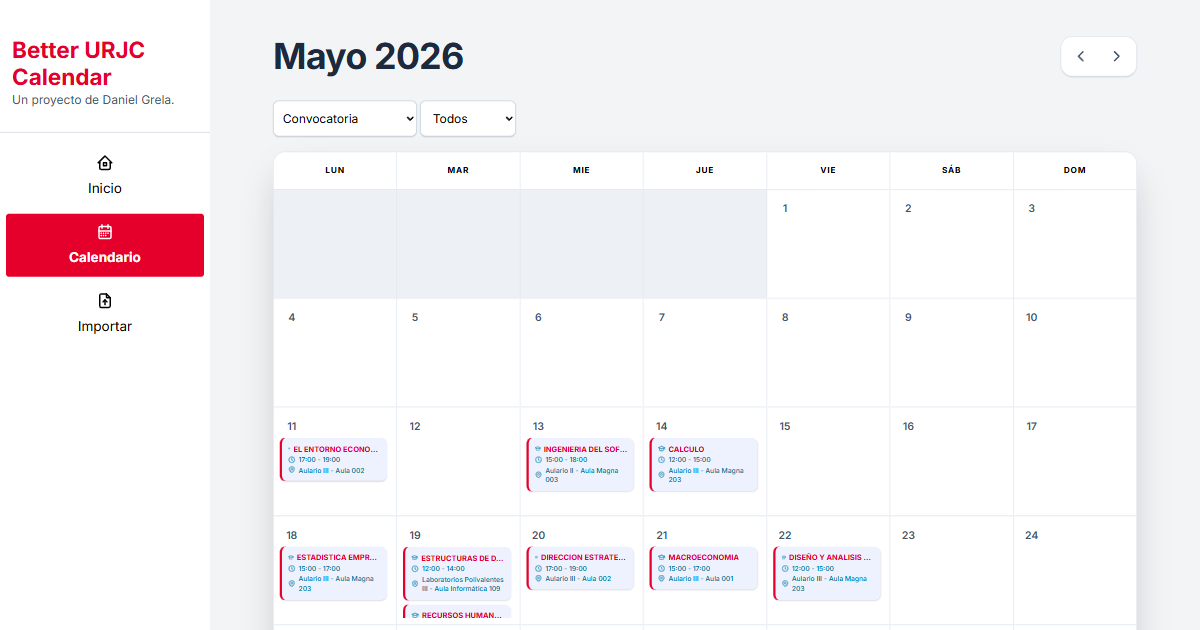
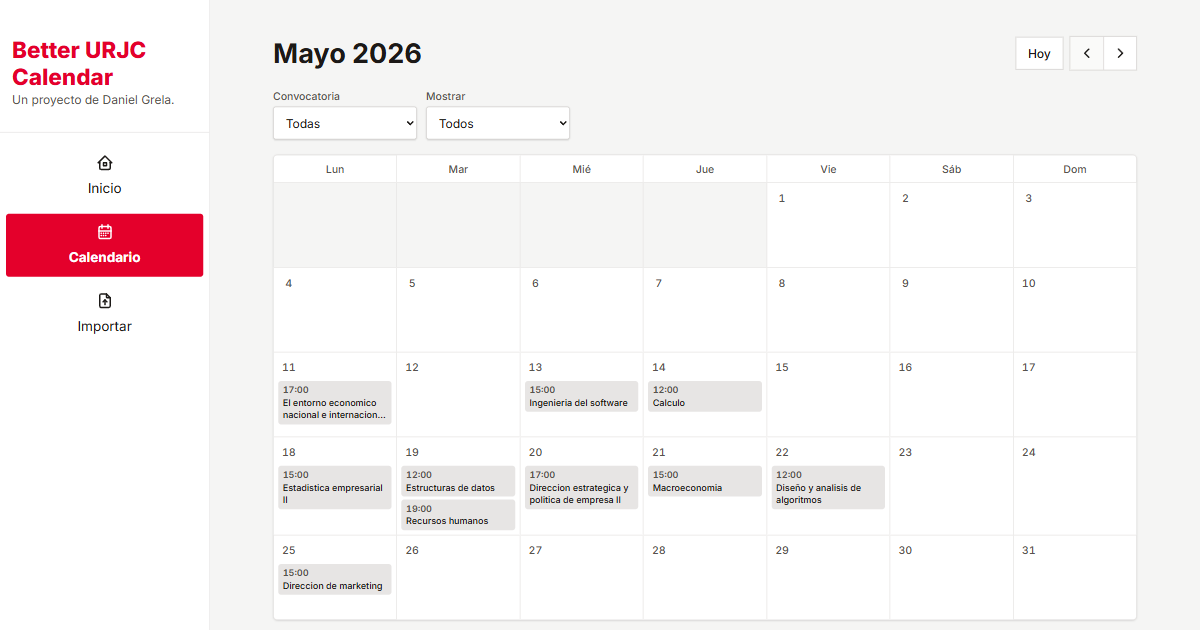
Se rehacen la imagen social y la captura de Importar con el diseño nuevo

diff --git a/src/components/UseGuide.tsx b/src/components/UseGuide.tsx
@@ -32,13 +32,13 @@ export default function UseGuide() {
                     </div>
                 </div>
                 <div className="min-w-full lg:min-w-1/3 gap-8 flex flex-col justify-center">
-                    <img src={fotoguia02} alt="Inicio de sesión único (SSO) de la URJC con las opciones Credenciales y Sistema Cl@ve" className="rounded-md border border-borde w-full h-auto object-contain" />
-                    <img src={fotoguia01} alt="Apartado Exámenes de la web de la URJC con los botones Descargar en PDF y Descargar en Excel" className="rounded-md border border-borde w-full h-auto object-contain" />
+                    <img src={fotoguia02} width={833} height={546} decoding="async" alt="Inicio de sesión único (SSO) de la URJC con las opciones Credenciales y Sistema Cl@ve" className="rounded-md border border-borde w-full h-auto object-contain" />
+                    <img src={fotoguia01} width={340} height={182} loading="lazy" decoding="async" alt="Apartado Exámenes de la web de la URJC con los botones Descargar en PDF y Descargar en Excel" className="rounded-md border border-borde w-full h-auto object-contain" />
                 </div>
             </article>
             <article className="p-6 gap-10 w-full max-w-300 h-fit flex flex-col-reverse lg:flex-row">
                 <div className="min-w-full lg:min-w-1/2 gap-8 flex flex-col justify-center">
-                    <img src={fotoguia03} alt="Página Importar de Better URJC Calendar con el archivo Examenes.xlsx seleccionado y el botón Importar" className="rounded-md border border-borde w-full h-auto object-contain" />                </div>
+                    <img src={fotoguia03} width={968} height={695} loading="lazy" decoding="async" alt="Página Importar de Better URJC Calendar con el archivo Examenes.xlsx seleccionado y el botón Importar" className="rounded-md border border-borde w-full h-auto object-contain" />                </div>
                 <div className="min-w-full lg:min-w-1/2 gap-5 flex flex-col justify-center">
                     <div className='flex flex-col lg:flex-row items-center justify-center text-center lg:text-start lg:justify-start gap-3'>
                         <IconFileUpload stroke={2} className='text-primary size-8 min-w-fit' aria-hidden='true'/>

diff --git a/ROADMAP.md b/ROADMAP.md
@@ -157,7 +157,7 @@ Lo bueno: un solo color de marca, CTAs rectos y directos, tarjeta de examen clar
 - [x] **F6.7** Accesibilidad: zonas táctiles ≥ 44 px (footer, «Volver al inicio», navegación), `focus-visible` con anillo `primary` en todos los controles, `label` (visible o `sr-only`) en los `<select>`, `aria-current="page"` en la navegación, `prefers-reduced-motion`. Hecho: anillo `primary` global en `:focus-visible` (también en la zona de subida vía `peer`), `label` `sr-only` en los dos `<select>` (con `useId`), `aria-label` «Mes anterior/siguiente» y 44×44 en los botones de mes, ≥ 44 px en footer, «Volver al inicio», iconos del `Header`, enlaces de la 404 y botón «Importar» (ahora uno solo responsive), `h2` de Características `sr-only` en móvil (orden de títulos), enlaces dentro de párrafos subrayados y transiciones a 0 s con `prefers-reduced-motion`. `aria-current="page"` ya lo pone `NavLink`. El botón «Hoy» del calendario va en F6.9.
 - [x] **F6.8** Copy: tildes que faltan («exámenes», «aquí», «Ahórrate», «Olvídate», «céntrate», «asegúrate»), mayúsculas coherentes en botones y textos de ayuda en el mismo tono. Hecho: tildes en portada, Características, Importar, guía, lista móvil y «Mié» de la rejilla; mayúsculas de frase en títulos y botones («Próximos exámenes», «Mis exámenes», «Importar calendario de exámenes»); «Ya tienes» (tú); fuera el prefijo «ERROR:»; comillas «» en la guía; `aria-label` de los iconos del `Header` en español. El título de la hoja del Excel exportado («Examenes») se deja igual que el original de la URJC.
 - [x] **F6.9 Legibilidad del calendario (rediseño global)**: pedido por el usuario el 2026-11-19. Revisar el diseño de todo lo que muestra exámenes para que se lea de un vistazo, como un único sistema y no tres piezas sueltas. Empezar con `impeccable critique` del calendario de escritorio, la lista móvil, `NextExams` y el mockup de la portada, en claro y oscuro, y **proponer la dirección al usuario antes de implementar**. Cubrir: jerarquía de la tarjeta (asignatura > fecha y hora > aula > plan), tamaños mínimos (12 px en la rejilla, 14 px en las listas), nada de mayúsculas forzadas ni `truncate` que corte el nombre de la asignatura sin forma de verlo entero, celdas con varios exámenes sin scroll interno (resumen tipo «+2 más» o detalle al pulsar), contraste AA de `tertiary` y `primary` sobre las superficies, fecha y hora en formato humano y unificar las variantes de `ExamCard` (`full`/`list`/`compact`, ver F2.5). Engloba F6.2 y F6.3: se hacen dentro de esta tarea y se marcan juntas. dep: F5.2, F6.1 Hecho el 2026-11-19 con la dirección que eligió el usuario entre dos propuestas: **rejilla de líneas + detalle al pulsar** (en vez de rejilla con panel lateral) y **tarjeta con bloque de fecha** (en vez de mantener la actual unificada). Crítica en una sola pasada (sin subagentes). `ExamCard` queda en dos variantes, `card` y `line`; helpers de formato en `examen.ts` con tests. El nombre pasa a tipo frase (las tildes que no trae el Excel siguen sin estar: «Calculo»). Los filtros llevan etiqueta visible y opciones cortas. Queda para F6.4 el `zoom: 0.75` del mockup de la portada, que vuelve a dejar el texto a 9 px.
-- [ ] **F6.10 Capturas nuevas**: pedido por el usuario el 2026-11-19. Rehacer `public/og-image.png` (1200×630, calendario real con `public/Examenes.xlsx`, tema claro) y las capturas de la guía de uso de la app (`src/assets/fotoguia03`, página Importar) con la paleta de F5.8 y el diseño final de F6; revisar si `fotoguia01`/`fotoguia02` (web de la URJC) siguen al día. Actualizar `og:image:alt` en `root.tsx` y los `alt` de `UseGuide` si cambia lo que se ve. Pedir al usuario las capturas de la web de la URJC (necesitan su sesión). dep: F6.9
+- [ ] **F6.10 Capturas nuevas**: pedido por el usuario el 2026-11-19. Rehacer `public/og-image.png` (1200×630, calendario real con `public/Examenes.xlsx`, tema claro) y las capturas de la guía de uso de la app (`src/assets/fotoguia03`, página Importar) con la paleta de F5.8 y el diseño final de F6; revisar si `fotoguia01`/`fotoguia02` (web de la URJC) siguen al día. Actualizar `og:image:alt` en `root.tsx` y los `alt` de `UseGuide` si cambia lo que se ve. Pedir al usuario las capturas de la web de la URJC (necesitan su sesión). dep: F6.9 **En curso** (2026-11-19): rehechas `public/og-image.png` (1200×630, mayo de 2026 con `public/Examenes.xlsx`, tema claro, renderizada a 1600×840 y reducida) y `src/assets/fotoguia03.png` (968×695, Importar con `Examenes.xlsx` elegido y sin datos previos), con Playwright y sin el botón flotante de tema; capturas de la guía con `width`/`height` y `loading="lazy"` salvo la primera. El `og:image:alt` y los `alt` siguen describiendo lo que se ve. Falta: capturas de la web de la URJC (`fotoguia01`/`02`), que necesitan la sesión del usuario.
 - [x] **F6.11 Botones y contenedores con una sola receta** (de F6.1): hoy hay cinco radios (`rounded-none` en CTAs, `rounded` en Importar y el diálogo, `rounded-lg` en la 404, `rounded-xl`/`2xl` en los botones de mes) y alturas de 40 a 84 px. Fijar en `DESIGN.md` primario, secundario y botón de texto (radio, alto mínimo 44 px, padding) y aplicarlos en todo el sitio; avisos de Importar sin tarjeta dentro de tarjeta; `main` del dashboard con `overflow-y-auto` en vez de `scroll`. Terminar con `impeccable polish`. dep: F6.9 Hecho: receta única en `DESIGN.md` (primario, secundario, neutro y de texto; esquinas rectas, `min-h-11`, `font-medium`) aplicada a portada, dashboard, exportar, estados vacíos, Importar, diálogo de borrar, aviso de versión nueva, calendario y 404 (el botón de la 404 pierde `rounded-lg`, sombra y `py-7`); avisos de Importar como filas con separador en vez de cajas dentro del formulario; `main` con `overflow-y-auto`. Repaso final con la guía de `impeccable polish`: fuera también los cuadros de icono rojos y el `border-2` de la guía de uso y la sombra fuerte de la imagen de la 404.
 
 ## F7 · Documentación
